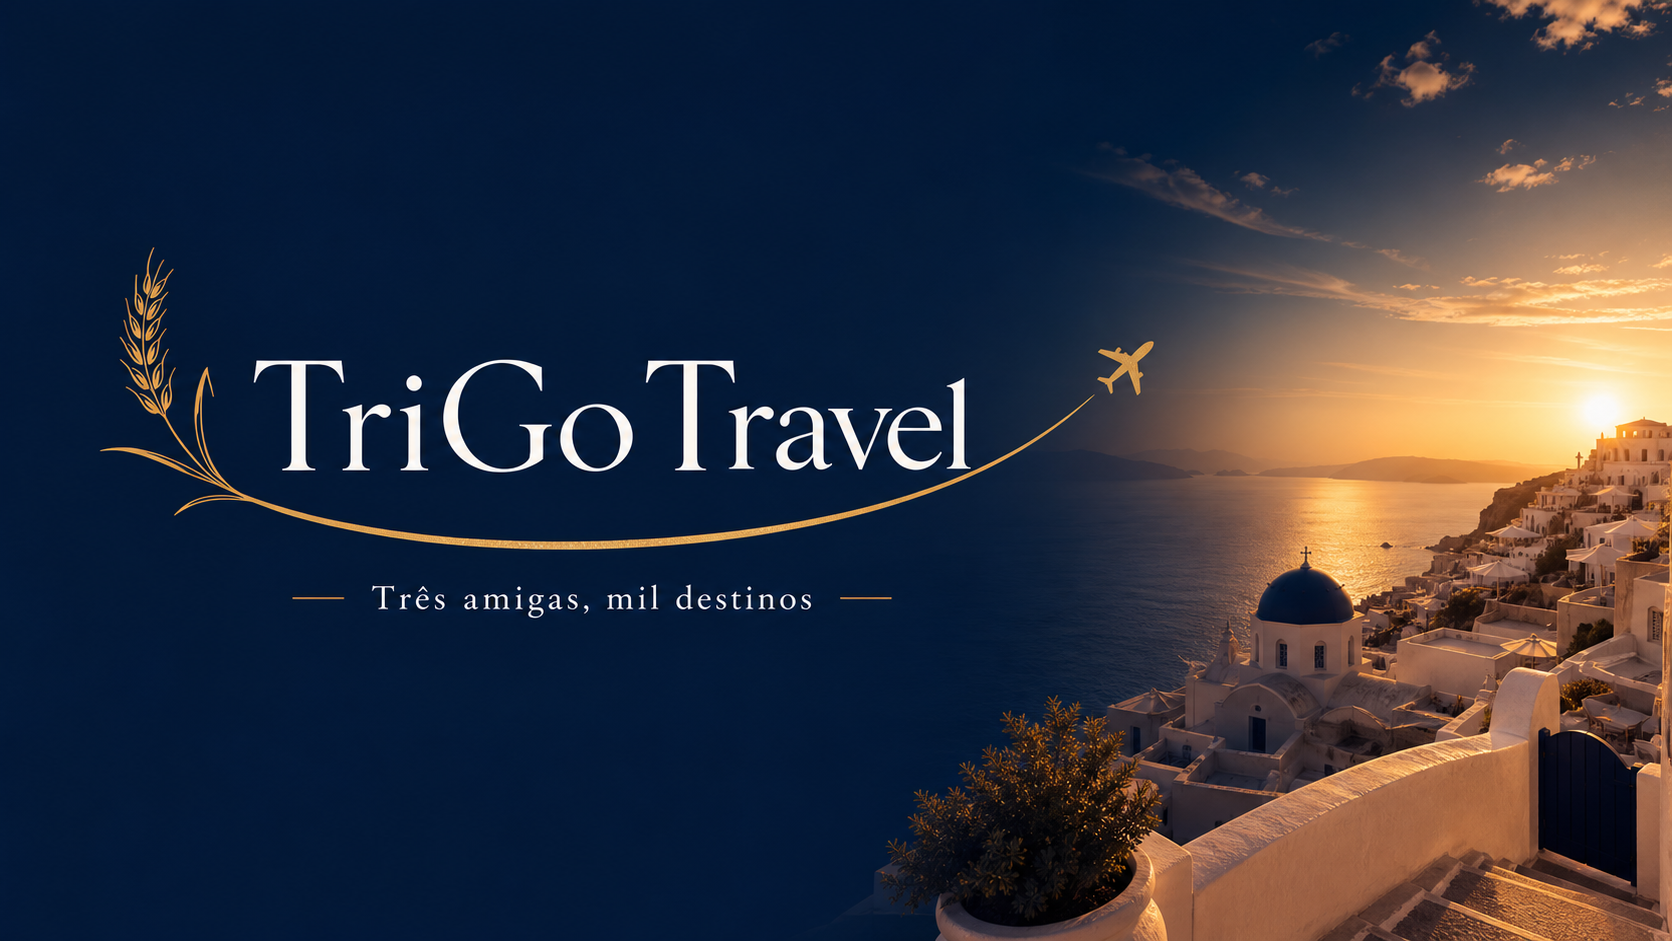
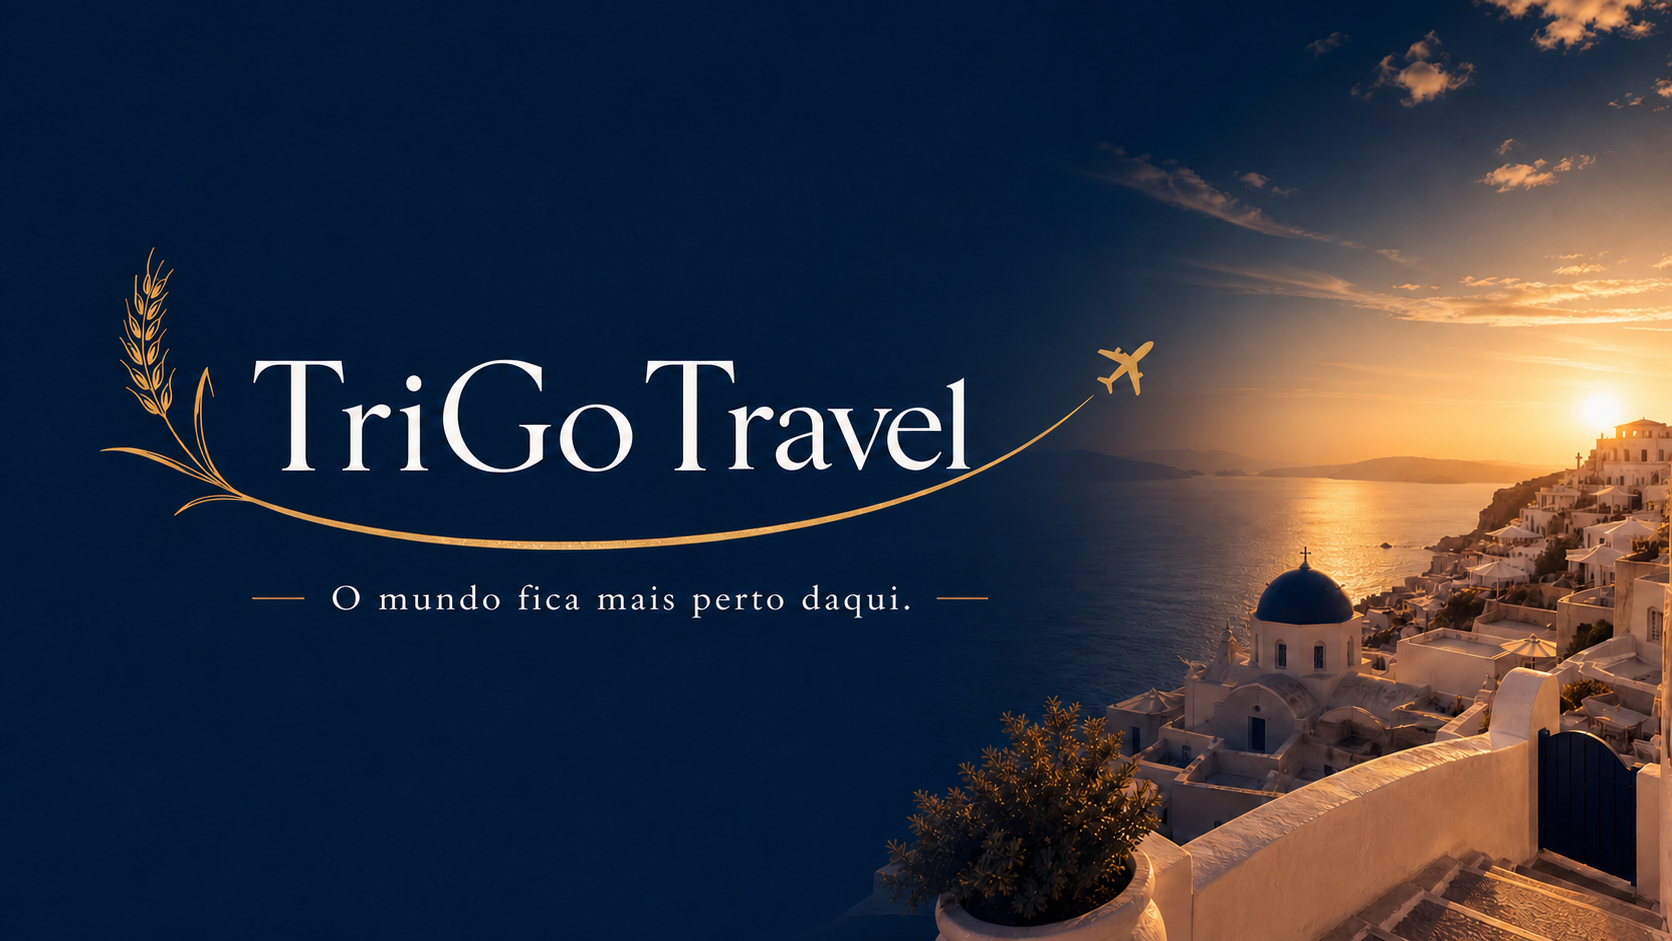
Use Santorini artwork as homepage hero

diff --git a/app/globals.css b/app/globals.css
@@ -6,11 +6,11 @@ html { scroll-behavior:smooth; }
 body { margin:0; color:var(--ink); background:var(--paper); font-family:var(--font-sans), Arial, sans-serif; }
 a { color:inherit; text-decoration:none; }
 .container { width:min(1180px, calc(100% - 64px)); margin:auto; }
-.hero { min-height:760px; color:white; position:relative; display:flex; flex-direction:column; background:linear-gradient(90deg, rgba(3,19,53,.82),rgba(3,19,53,.2)), url("https://images.unsplash.com/photo-1507525428034-b723cf961d3e?auto=format&fit=crop&w=2000&q=90") center/cover; }
+.hero { min-height:760px; color:white; position:relative; display:flex; flex-direction:column; background:url("/og.png") center/cover; }
 .nav { padding:30px 0; display:flex; align-items:center; justify-content:space-between; font-size:.88rem; }
 .brand { display:inline-flex; align-items:baseline; gap:9px; font-size:1.42rem; letter-spacing:-.07em; font-weight:700; }.brand span { font-family:var(--font-serif),Georgia,serif; font-style:normal; font-weight:500; }.brand small { font-size:.45em; letter-spacing:.35em; font-weight:700; }
 .nav-links { display:flex; gap:31px; opacity:.92; }.nav-links a:hover,.footer-links a:hover { color:var(--gold); }.nav-cta { border-bottom:1px solid rgba(255,255,255,.7); padding-bottom:5px; }.nav-cta span { margin-left:8px; }
-.hero-content { margin:auto; padding:100px 0; }.eyebrow { margin:0 0 22px; text-transform:uppercase; letter-spacing:.17em; font-size:.68rem; font-weight:700; }.light { color:#f8ebd6; }
+.hero-content { margin:auto; padding:100px 0; }.hero-action { position:absolute; bottom:52px; left:50%; transform:translateX(-50%); padding:0; }.sr-only { position:absolute; width:1px; height:1px; padding:0; margin:-1px; overflow:hidden; clip:rect(0,0,0,0); white-space:nowrap; border:0; }.eyebrow { margin:0 0 22px; text-transform:uppercase; letter-spacing:.17em; font-size:.68rem; font-weight:700; }.light { color:#f8ebd6; }
 h1,h2,h3 { margin:0; font-family:var(--font-serif),Georgia,serif; font-weight:500; letter-spacing:-.055em; line-height:.94; }h1 { font-size:clamp(4rem,9vw,7.7rem); }h2 { font-size:clamp(3rem,5.7vw,5.7rem); }em { color:var(--gold); font-weight:400; }.hero-copy { width:min(390px,100%); font-size:1.04rem; line-height:1.65; margin:33px 0; }.button { display:inline-flex; align-items:center; gap:35px; border:0; padding:16px 20px; font:600 .82rem var(--font-sans),sans-serif; cursor:pointer; }.button span { font-size:1.25rem; }.button-light { background:#fff; color:var(--ink); }.button-dark { background:var(--ink); color:white; }.button:hover { transform:translateY(-2px); transition:.2s ease; }.hero-bottom { padding:30px 0; display:flex; justify-content:space-between; text-transform:uppercase; letter-spacing:.1em; font-size:.62rem; }.scroll { opacity:.78; }
 .intro { padding:145px 0 155px; }.intro-grid { display:grid; grid-template-columns:1.15fr .7fr; gap:110px; align-items:end; }.intro-grid>div p,.experience-copy>p { margin:0 0 28px; line-height:1.75; font-size:1rem; }.identity-mark { display:block; width:235px; margin:0 0 25px; mix-blend-mode:multiply; }.text-link { display:inline-block; border-bottom:1px solid var(--ink); padding-bottom:7px; font-weight:600; font-size:.84rem; }.text-link span { margin-left:15px; }
 .destinations { background:var(--sand); padding:110px 0 125px; }.section-head { display:flex; align-items:end; justify-content:space-between; margin-bottom:48px; }.destination-grid { display:grid; grid-template-columns:1.14fr .86fr .86fr; gap:20px; }.destination { position:relative; min-height:470px; overflow:hidden; color:white; }.destination-2,.destination-3 { margin-top:70px; min-height:400px; }.destination img,.experience-photo img { width:100%; height:100%; object-fit:cover; display:block; transition:transform .6s ease; }.destination:hover img { transform:scale(1.06); }.destination-shade { position:absolute; inset:0; background:linear-gradient(0deg,rgba(3,19,53,.88),rgba(3,19,53,0) 60%); }.destination-info { position:absolute; inset:0; padding:22px; display:flex; flex-direction:column; justify-content:space-between; }.tag { background:rgba(255,255,255,.94); color:var(--ink); padding:7px 10px; width:max-content; text-transform:uppercase; letter-spacing:.13em; font-size:.58rem; font-weight:700; }.destination-info p { margin:0 0 5px; font-size:.78rem; }.destination h3 { font-size:2.35rem; }.destination strong { display:block; margin-top:16px; font-size:.72rem; letter-spacing:.07em; }
@@ -19,4 +19,4 @@ h1,h2,h3 { margin:0; font-family:var(--font-serif),Georgia,serif; font-weight:50
 .contact { padding:130px 0; }.contact-grid { display:grid; grid-template-columns:1fr .8fr; gap:15%; }.contact form { padding-top:42px; }.contact label { display:block; font-size:.72rem; font-weight:700; margin:0 0 9px; }.contact input { display:block; width:100%; background:transparent; border:0; border-bottom:1px solid #b9ad9f; padding:11px 0 15px; margin:0 0 30px; outline:none; font:1rem var(--font-sans),sans-serif; color:var(--ink); }.contact input:focus { border-color:var(--ink); }.form-success { color:#35644d; font-size:.86rem; margin-top:15px; }
 .contact-links { display:flex; flex-wrap:wrap; gap:24px; margin-top:38px; }.contact-links a { display:flex; flex-direction:column; gap:6px; min-width:175px; border-top:1px solid #b9ad9f; padding-top:10px; }.contact-links small { color:#746c62; text-transform:uppercase; letter-spacing:.14em; font-size:.58rem; font-weight:700; }.contact-links span { font-size:.88rem; font-weight:600; }.contact-links a:hover span { color:var(--coral); }
 footer { background:var(--ink); color:white; padding:34px 0; } .footer-content { display:flex; align-items:center; justify-content:space-between; gap:25px; }.footer-content p { font-family:var(--font-serif),Georgia,serif; font-size:1rem; margin:0; color:#dec189; }.footer-links { display:flex; gap:20px; font-size:.75rem; }
-@media(max-width:760px) { .container{width:min(100% - 40px,1180px)}.hero{min-height:680px}.nav-links{display:none}.nav-cta{font-size:.75rem}.hero-bottom .scroll{display:none}.hero-bottom{font-size:.55rem}.intro{padding:90px 0}.intro-grid,.experiences,.contact-grid{grid-template-columns:1fr;gap:35px}.section-head{align-items:start;gap:25px}.section-head .text-link{display:none}.destination-grid{grid-template-columns:1fr;gap:14px}.destination,.destination-2,.destination-3{min-height:410px;margin:0}.experiences{padding:90px 0}.experience-photo{height:400px;order:2}.number-grid{grid-template-columns:1fr;gap:32px}.number-grid>div,.number-grid>div:first-child{padding:0;border:0}.contact{padding:90px 0}.contact form{padding-top:0}.footer-content{align-items:flex-start;flex-direction:column}.footer-content p{max-width:270px} }
+@media(max-width:760px) { .container{width:min(100% - 40px,1180px)}.hero{min-height:640px;background-position:42% center}.nav-links{display:none}.nav-cta{font-size:.75rem}.hero-action{bottom:32px}.intro{padding:90px 0}.intro-grid,.experiences,.contact-grid{grid-template-columns:1fr;gap:35px}.section-head{align-items:start;gap:25px}.section-head .text-link{display:none}.destination-grid{grid-template-columns:1fr;gap:14px}.destination,.destination-2,.destination-3{min-height:410px;margin:0}.experiences{padding:90px 0}.experience-photo{height:400px;order:2}.number-grid{grid-template-columns:1fr;gap:32px}.number-grid>div,.number-grid>div:first-child{padding:0;border:0}.contact{padding:90px 0}.contact form{padding-top:0}.footer-content{align-items:flex-start;flex-direction:column}.footer-content p{max-width:270px} }

diff --git a/app/page.tsx b/app/page.tsx
@@ -26,20 +26,17 @@ export default function Home() {
           </div>
           <a className="nav-cta" href="#contato">Planejar viagem <span>↗</span></a>
         </nav>
-        <div className="hero-content container">
-          <p className="eyebrow light">TriGo Travel · três amigas, mil destinos</p>
-          <h1>Três amigas.<br /><em>Mil destinos.</em></h1>
-          <p className="hero-copy">Roteiros feitos com escuta, afeto e atenção aos detalhes para você colecionar histórias pelo mundo.</p>
+        <div className="hero-content hero-action container">
+          <h1 className="sr-only">O mundo fica mais perto daqui.</h1>
           <a className="button button-light" href="#contato">Comece a planejar <span>→</span></a>
         </div>
-        <div className="hero-bottom container"><span>01 — 05</span><span>Descubra o seu próximo lugar</span><span className="scroll">role para explorar ↓</span></div>
       </section>
 
       <section className="intro container" id="sobre">
         <p className="eyebrow">muito além de uma passagem</p>
         <div className="intro-grid">
           <h2>Viagens que você<br />vai <em>lembrar para sempre.</em></h2>
-          <div><img className="identity-mark" src="/trigo-travel-identidade.jpg" alt="TriGo Travel — Três amigas, mil destinos" /><p>Na TriGo Travel, cada roteiro nasce de uma conversa. Entendemos seu jeito de viajar e transformamos vontade em uma experiência que parece ter sido feita sob medida — porque foi.</p><a className="text-link" href="#contato">Conheça nosso jeito de viajar <span>→</span></a></div>
+          <div><p>Na TriGo Travel, cada roteiro nasce de uma conversa. Entendemos seu jeito de viajar e transformamos vontade em uma experiência que parece ter sido feita sob medida — porque foi.</p><a className="text-link" href="#contato">Conheça nosso jeito de viajar <span>→</span></a></div>
         </div>
       </section>
 
@@ -63,7 +60,7 @@ export default function Home() {
 
       <section className="contact" id="contato"><div className="container contact-grid"><div><p className="eyebrow">vamos conversar</p><h2>Para onde<br />o seu coração<br /><em>quer ir?</em></h2><div className="contact-links"><a href="https://wa.me/5521967260597" target="_blank" rel="noreferrer"><small>WhatsApp</small><span>(21) 96726-0597 ↗</span></a><a href="https://instagram.com/trigo.travel" target="_blank" rel="noreferrer"><small>Instagram</small><span>@trigo.travel ↗</span></a></div></div><form onSubmit={handleSubmit}><label htmlFor="name">Como podemos te chamar?</label><input id="name" name="name" placeholder="Seu nome" required /><label htmlFor="dream">Qual viagem você sonha fazer?</label><input id="dream" name="dream" placeholder="Conte um pouquinho" required /><button className="button button-dark" type="submit">Quero conversar <span>→</span></button>{sent && <p className="form-success" role="status">Obrigada! Em breve entraremos em contato.</p>}</form></div></section>
 
-      <footer><div className="container footer-content"><a className="brand" href="#inicio"><span>TriGo</span><small>TRAVEL</small></a><p>Três amigas, mil destinos.</p><div className="footer-links"><a href="https://instagram.com/trigo.travel" target="_blank" rel="noreferrer">Instagram</a><a href="https://wa.me/5521967260597" target="_blank" rel="noreferrer">WhatsApp</a></div></div></footer>
+      <footer><div className="container footer-content"><a className="brand" href="#inicio"><span>TriGo</span><small>TRAVEL</small></a><p>O mundo fica mais perto daqui.</p><div className="footer-links"><a href="https://instagram.com/trigo.travel" target="_blank" rel="noreferrer">Instagram</a><a href="https://wa.me/5521967260597" target="_blank" rel="noreferrer">WhatsApp</a></div></div></footer>
     </main>
   );
 }

diff --git a/app/layout.tsx b/app/layout.tsx
@@ -2,15 +2,15 @@ import type { Metadata } from "next";
 import "./globals.css";
 
 export const metadata: Metadata = {
-  title: "TriGo Travel | Três amigas, mil destinos",
+  title: "TriGo Travel | O mundo fica mais perto daqui",
   description: "Roteiros feitos com escuta, afeto e atenção aos detalhes para você viver o mundo do seu jeito.",
   metadataBase: new URL("https://trigo-travels.maiat.chatgpt.site"),
   openGraph: {
-    title: "TriGo Travel | Três amigas, mil destinos",
+    title: "TriGo Travel | O mundo fica mais perto daqui",
     description: "Roteiros feitos com escuta, afeto e atenção aos detalhes.",
     images: [{ url: "/og.png", width: 1680, height: 945, alt: "TriGo Travel — Três amigas, mil destinos" }],
   },
-  twitter: { card: "summary_large_image", title: "TriGo Travel | Três amigas, mil destinos", images: ["/og.png"] },
+  twitter: { card: "summary_large_image", title: "TriGo Travel | O mundo fica mais perto daqui", images: ["/og.png"] },
   icons: { icon: "/favicon.svg" },
 };
 
